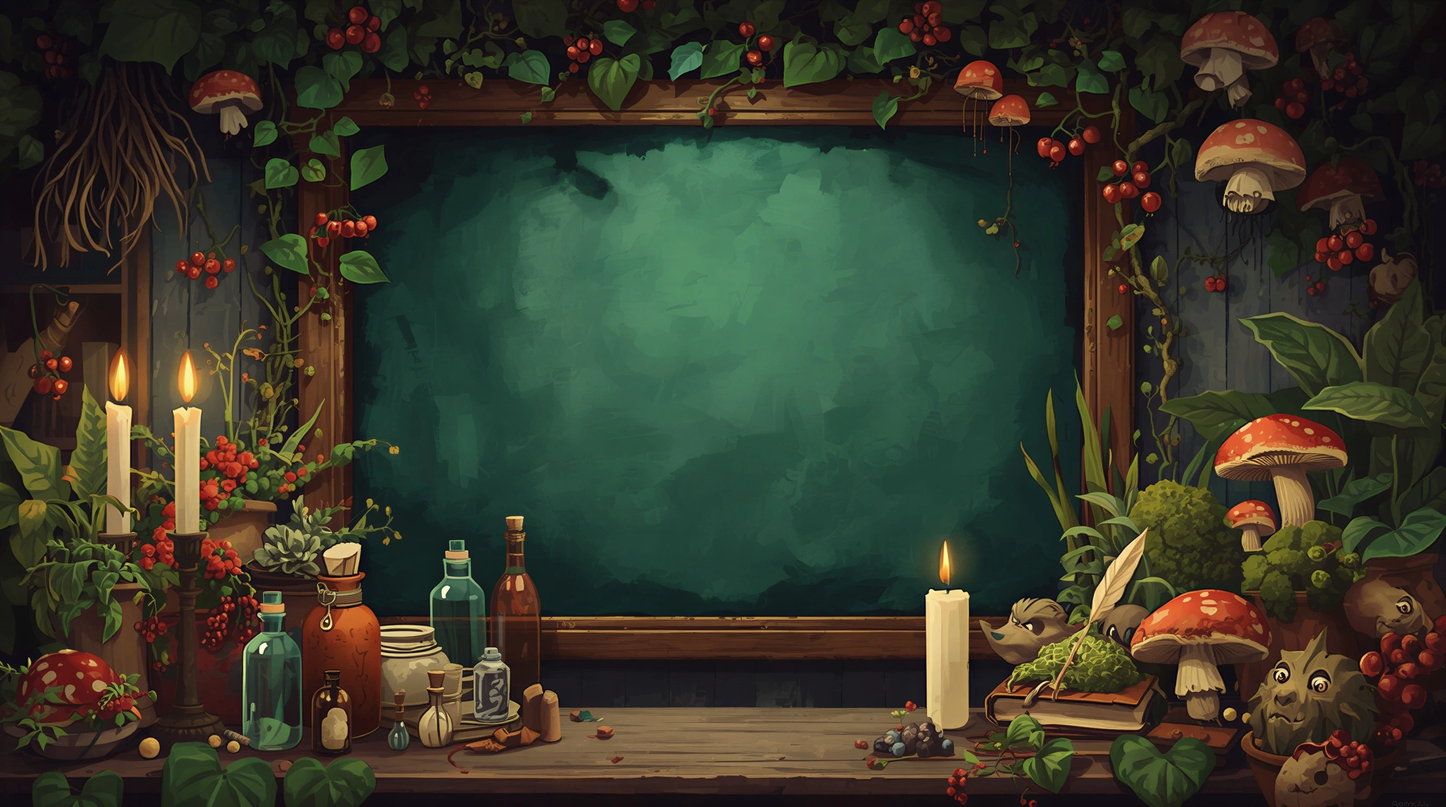
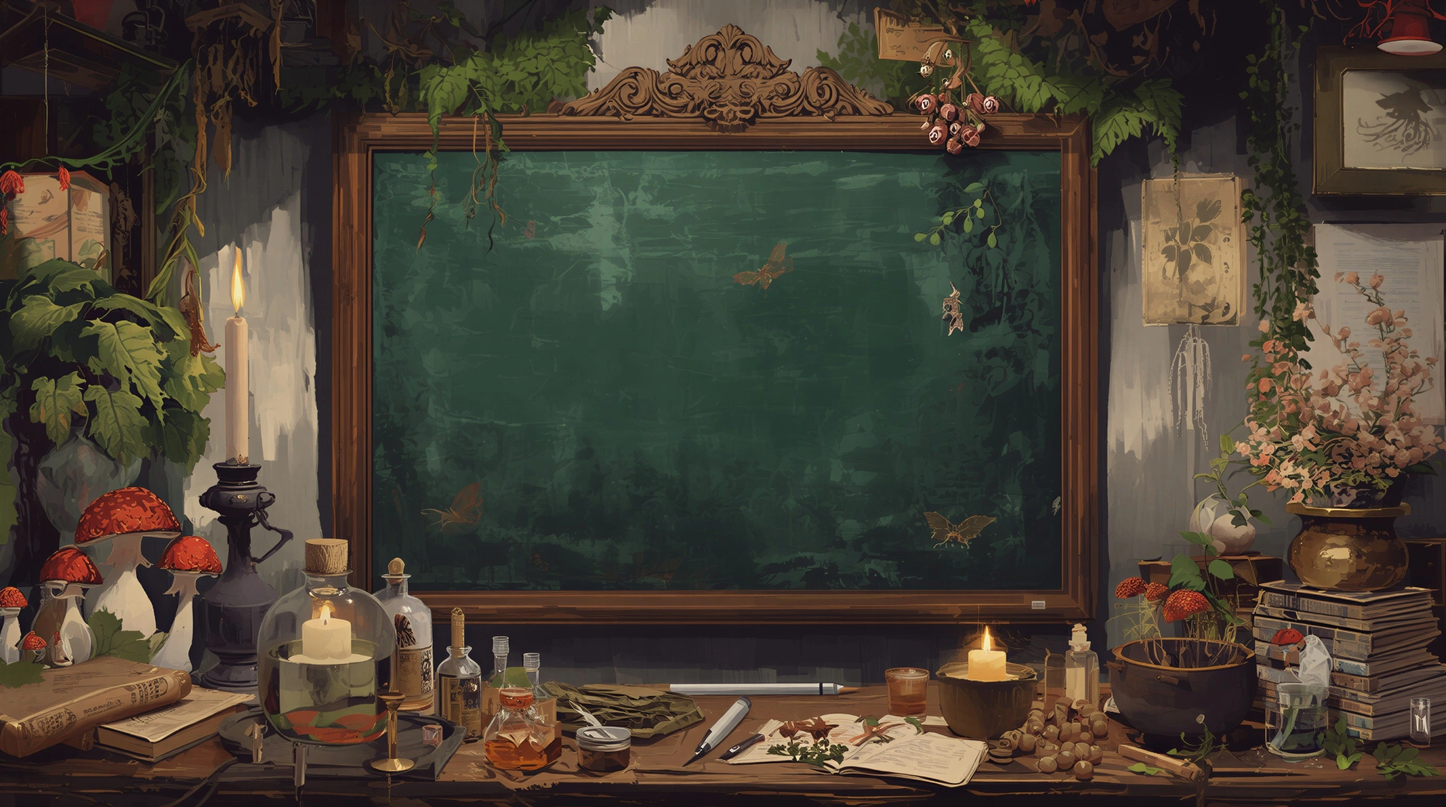
upd backgrounds

diff --git a/styles/resume.css b/styles/resume.css
@@ -3,10 +3,23 @@
    Styles for pages/resume.html
    ====================== */
 
-
 /* ======================
    SCREEN LAYOUT
    ====================== */
+ 
+body {
+  background-image: url('../media/backgrounds/resume.webp');
+  background-size: cover;
+  background-position: center center;
+  background-repeat: no-repeat;
+  min-height: 100vh;
+}
+ 
+@media (max-width: 480px) {
+  body {
+    background-image: url('../media/backgrounds/resume_m.webp');
+  }
+}
 
 .resume-screen {
   max-width: 640px;

diff --git a/styles/hub.css b/styles/hub.css
@@ -190,6 +190,7 @@ body {
 /* ── Mobile ── */
 @media (max-width: 480px) {
   .hub {
+    background-image: url('../media/backgrounds/hub_m.webp');
     background-position: 55% center;
     padding-bottom: 10vh;
   }
@@ -208,4 +209,5 @@ body {
   .hub { padding-bottom: 0; }
   .stats { padding: 0.3rem 0.6rem; font-size: 0.75rem; }
   .board-wrapper { padding: 0.5rem; }
-}
+  }
+  

diff --git a/styles/npc.css b/styles/npc.css
@@ -2,7 +2,13 @@
    NPC SCREEN — styles/npc.css
    ====================== */
 
+
 /* --- Layout --- */
+.npc-screen {
+  background-image: url("../media/backgrounds/nps-bg.webp");
+  background-size: cover;
+  background-position: center top;
+}
 
 .npc-screen {
   display: flex;
